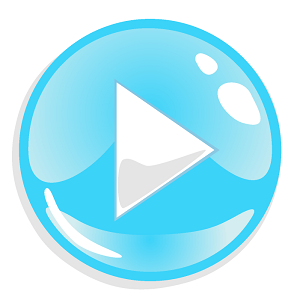
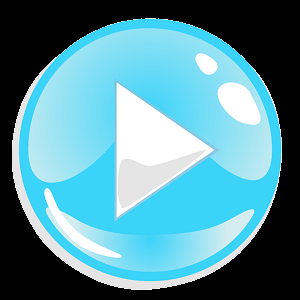
Add choosing color key for sprites

diff --git a/app/jni/src/main_menu_state.cpp b/app/jni/src/main_menu_state.cpp
@@ -1,6 +1,7 @@
 #include <memory>
 #include "main_menu_state.h"
 #include "button.h"
+#include "colour.h"
 
 MainMenuState::MainMenuState(std::shared_ptr<StateMachine> stateMachine, Video & video) {
     this->stateMachine = stateMachine;
@@ -12,19 +13,19 @@ MainMenuState::MainMenuState(std::shared_ptr<StateMachine> stateMachine, Video &
     row->add(new ImageButton(
             video, "gui/buttons/normal/play.png", "gui/buttons/click/play.png",
             0, 0, BUTTON_SIZE, BUTTON_SIZE,
-            0, 0, false,  [sm = stateMachine]() {sm->change(PLAY, nullptr);}));
+            0, 0, [sm = stateMachine]() { sm->change(PLAY, nullptr); }, &Colour::black));
     row->add(new ImageButton(
             video, "gui/buttons/normal/records.png", "gui/buttons/click/records.png",
             0, 0, BUTTON_SIZE, BUTTON_SIZE,
-            0, 0, false, []() {}));
+            0, 0, []() {}, &Colour::black));
     row->add(new ImageButton(
             video, "gui/buttons/normal/help.png", "gui/buttons/click/help.png",
             0, 0, BUTTON_SIZE, BUTTON_SIZE,
-            0, 0, false, []() {}));
+            0, 0, []() {}, &Colour::black));
     row->add(new ImageButton(
-                 video, "gui/buttons/normal/home.png", "gui/buttons/click/home.png",
-                 0, 0, BUTTON_SIZE, BUTTON_SIZE,
-                 0, 0, false, []() {}));
+            video, "gui/buttons/normal/home.png", "gui/buttons/click/home.png",
+            0, 0, BUTTON_SIZE, BUTTON_SIZE,
+            0, 0, []() {}, &Colour::black));
 
     SDL_Log("%d, %d", video.getScreenSizeW(), video.getScreenSizeH());
 }

diff --git a/app/jni/src/play_state.cpp b/app/jni/src/play_state.cpp
@@ -2,7 +2,7 @@
 #include "play_state.h"
 #include "player.h"
 #include "colour.h"
-
+#include "image_button.h"
 
 
 PlayState::PlayState(std::shared_ptr<StateMachine> stateMachine, Video &video) {
@@ -16,6 +16,12 @@ PlayState::PlayState(std::shared_ptr<StateMachine> stateMachine, Video &video) {
                                                                                 BACKGROUND_HEIGHT));
     deathAnimation = std::unique_ptr<DeathAnimation>(new DeathAnimation(video));
     moveAreaHeight = video.getScreenSizeH() - (video.getScreenSizeH() / FLOOR_HEIGHT_FACTOR);
+    pauseButton = std::unique_ptr<ImageButton>(new ImageButton(
+            video, "gui/buttons/normal/settings.png", "gui/buttons/click/settings.png",
+            0, 0,
+            100, 100,
+            video.getScreenSizeW() - 100, 0, []() {},
+            &Colour::black));
 }
 
 State::StateType PlayState::getStateType() {
@@ -80,6 +86,7 @@ void PlayState::render() {
     video.clear();
     background->render(video);
     score.render(video, std::to_string(player->getScore()).c_str(), Colour::black, 0, 0);
+    pauseButton->render();
     if (player->getDamagedState() != DEAD) {
         player->render(video);
         pickupManager->render(video);

diff --git a/app/jni/src/animated_sprite.cpp b/app/jni/src/animated_sprite.cpp
@@ -1,16 +1,8 @@
 #include "animated_sprite.h"
 
-AnimatedSprite::AnimatedSprite(Video &video,
-                               const char *fileName,
-                               int imgX,
-                               int imgY,
-                               int imgWidth,
-                               int imgHeight,
-                               int initX,
-                               int initY,
-                               bool colorKey,
-                               int numFrames,
-                               int targetFps) :
+AnimatedSprite::AnimatedSprite(Video &video, const char *fileName, int imgX, int imgY, int imgWidth,
+                               int imgHeight, int initX, int initY, int numFrames, int targetFps,
+                               const SDL_Color *colorKey) :
         Sprite(video, fileName, imgX ,imgY , imgWidth, imgHeight, initX, initY, colorKey) {
     frameTime = 1000 / targetFps;
     spriteElapsedTime = 0;

diff --git a/app/jni/src/image_button.cpp b/app/jni/src/image_button.cpp
@@ -1,11 +1,9 @@
 #include "image_button.h"
 
-ImageButton::ImageButton(Video &video,
-                         const char * unpressedFileName, const char * pressedFileName,
-                         int imgX, int imgY,
-                         int imgWidth, int imgHeight,
-                         int posX, int posY, bool colorKey,
-                         std::function<void()> callback)  {
+ImageButton::ImageButton(Video &video, const char *unpressedFileName, const char *pressedFileName,
+                         int imgX,
+                         int imgY, int imgWidth, int imgHeight, int posX, int posY,
+                         std::function<void()> callback, const SDL_Color *colorKey) {
     unpressed = std::unique_ptr<Sprite>(
             new Sprite(video, unpressedFileName, imgX, imgY, imgWidth, imgHeight, posX, posY, colorKey));
     pressed = std::unique_ptr<Sprite>(

diff --git a/app/jni/src/player.cpp b/app/jni/src/player.cpp
@@ -30,7 +30,8 @@ void Player::initSprites(Video & video) {
         sprites[state] = std::unique_ptr<AnimatedSprite>(new AnimatedSprite(video, SPRITE_FILE_NAME,
                                                                             0, TILE_HEIGHT * i,
                                                                             TILE_WIDTH, TILE_HEIGHT,
-                                                                            0, 0, true, NUM_FRAMES, TARGET_FPS));
+                                                                            0, 0, NUM_FRAMES,
+                                                                            TARGET_FPS, &Colour::white));
     }
     shieldSprite = std::unique_ptr<Sprite>(new ShieldSprite(video, x, y));
 }

diff --git a/app/jni/src/video.cpp b/app/jni/src/video.cpp
@@ -60,13 +60,13 @@ void Video::present() {
 }
 
 // Load image from file and convert to SDL_Texture
-SDL_Texture * Video::loadImage(const char * fileName, bool colorKey) {
+SDL_Texture * Video::loadImage(const char * fileName, const SDL_Color * colorKey) {
     SDL_Surface * tempSurface = IMG_Load(fileName);
     if (!tempSurface) {
         SDL_Log("IMG_Load error: %s", IMG_GetError());
     }
     if (colorKey) {
-        SDL_SetColorKey(tempSurface, SDL_TRUE, SDL_MapRGB(tempSurface->format, 0xFF, 0xFF, 0xFF));
+        SDL_SetColorKey(tempSurface, SDL_TRUE, SDL_MapRGB(tempSurface->format, colorKey->r, colorKey->g, colorKey->b));
     }
     SDL_Texture * newTexture = SDL_CreateTextureFromSurface(renderer, tempSurface);
     if (!newTexture) {

diff --git a/app/jni/src/animated_sprite.h b/app/jni/src/animated_sprite.h
@@ -6,17 +6,9 @@
 
 class AnimatedSprite : public Sprite {
     public:
-        AnimatedSprite(Video& video,
-               const char* fileName,
-               int imgX,
-               int imgY,
-               int imgWidth,
-               int imgHeight,
-               int initX,
-               int initY,
-               bool colorKey,
-               int numFrames,
-               int targetFps);
+        AnimatedSprite(Video &video, const char *fileName, int imgX, int imgY, int imgWidth,
+                       int imgHeight, int initX, int initY, int numFrames, int targetFps,
+                       const SDL_Color *colorKey = nullptr);
         void updateSprite(int elapsedTime);
         int getNumCompletedLoops();
 

diff --git a/app/jni/src/pickup.h b/app/jni/src/pickup.h
@@ -7,15 +7,15 @@
 
 class Pickup : public Sprite {
     public:
-        Pickup(Video& video,
-        const char* fileName,
-        int imgX,
-        int imgY,
-        int imgWidth,
-        int imgHeight,
-        int initX,
-        int initY,
-        bool colorKey);
+        Pickup(Video &video,
+               const char *fileName,
+               int imgX,
+               int imgY,
+               int imgWidth,
+               int imgHeight,
+               int initX,
+               int initY,
+               const SDL_Color *colorKey);
         void move(int screenHeight);
         SDL_Rect getCollider();
         virtual void activateAction(std::unique_ptr<Player> &player) = 0;

diff --git a/app/jni/src/image_button.h b/app/jni/src/image_button.h
@@ -8,12 +8,9 @@
 
 class ImageButton {
 public:
-    ImageButton(Video &video,
-            const char * unpressedFileName, const char * pressedFileName,
-            int imgX, int imgY,
-            int imgWidth, int imgHeight,
-            int posX, int posY, bool colorKey,
-            std::function<void()> callback);
+    ImageButton(Video &video, const char *unpressedFileName, const char *pressedFileName, int imgX,
+                int imgY, int imgWidth, int imgHeight, int posX, int posY,
+                std::function<void()> callback, const SDL_Color *colorKey = nullptr);
     bool handleEvent(SDL_Event & event);
     void render();
     void setX(int x);

diff --git a/app/jni/src/sprite.h b/app/jni/src/sprite.h
@@ -6,15 +6,15 @@
 
 class Sprite {
     public:
-        Sprite(Video& video,
-               const char* fileName,
+        Sprite(Video &video,
+               const char *fileName,
                int imgX,
                int imgY,
                int imgWidth,
                int imgHeight,
                int initX,
                int initY,
-               bool colorKey);
+               const SDL_Color *colorKey = nullptr);
         ~Sprite();
         void renderSprite(Video& video, int destX, int destY);
         void renderStretchToBackground(Video &video, int destX, int destY);

diff --git a/app/jni/src/button.h b/app/jni/src/button.h
@@ -9,15 +9,15 @@ class Button : public Sprite {
         const static int BUTTON_WIDTH;
         const static int BUTTON_HEIGHT;
 
-        Button(Video& video,
-               const char* fileName,
+        Button(Video &video,
+               const char *fileName,
                int imgX,
                int imgY,
                int imgWidth,
                int imgHeight,
                int initX,
                int initY,
-               bool colorKey);
+               const SDL_Color *colorKey = nullptr);
         bool checkTouch(float touchPosX, float touchPosY);
 };
 

diff --git a/app/jni/src/shield_sprite.cpp b/app/jni/src/shield_sprite.cpp
@@ -1,4 +1,5 @@
 #include "shield_sprite.h"
+#include "colour.h"
 
 const char * ShieldSprite::SHIELD_SPRITE_FILE_NAME = "spr_shield.png";
 const int ShieldSprite::SPRITE_WIDTH = 128;
@@ -6,6 +7,6 @@ const int ShieldSprite::SPRITE_HEIGHT = 128;
 
 
 ShieldSprite::ShieldSprite(Video &video, int initX, int initY) :
-        Sprite(video, SHIELD_SPRITE_FILE_NAME, 0, 0, SPRITE_WIDTH, SPRITE_HEIGHT, initX, initY, true){
+        Sprite(video, SHIELD_SPRITE_FILE_NAME, 0, 0, SPRITE_WIDTH, SPRITE_HEIGHT, initX, initY, &Colour::white){
     setTextureAlphaMod(127);
 }
